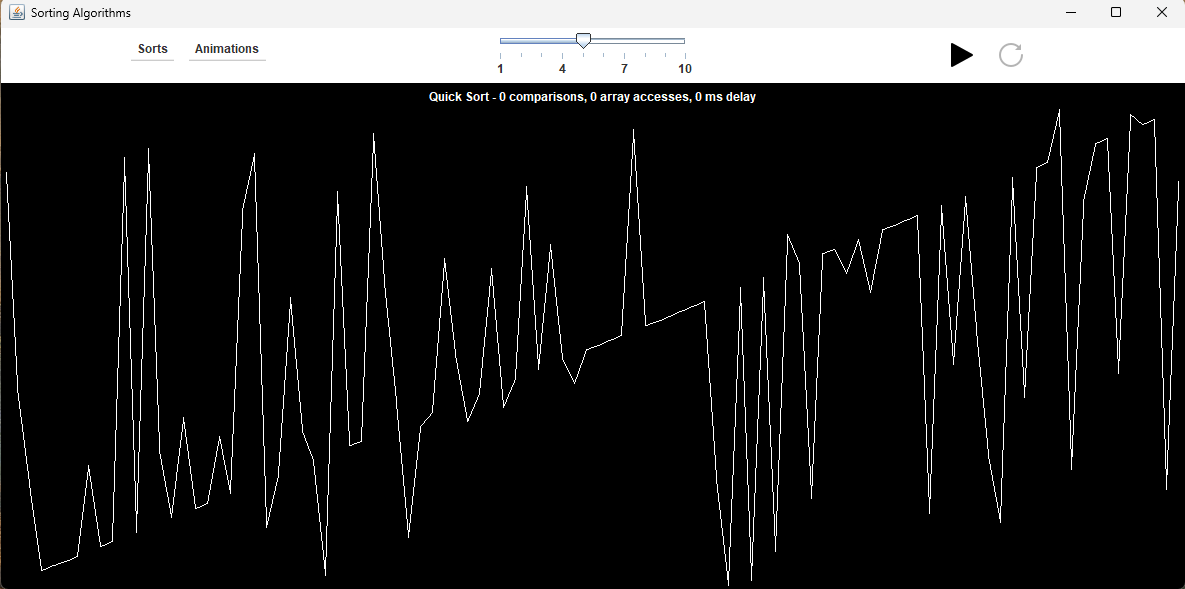
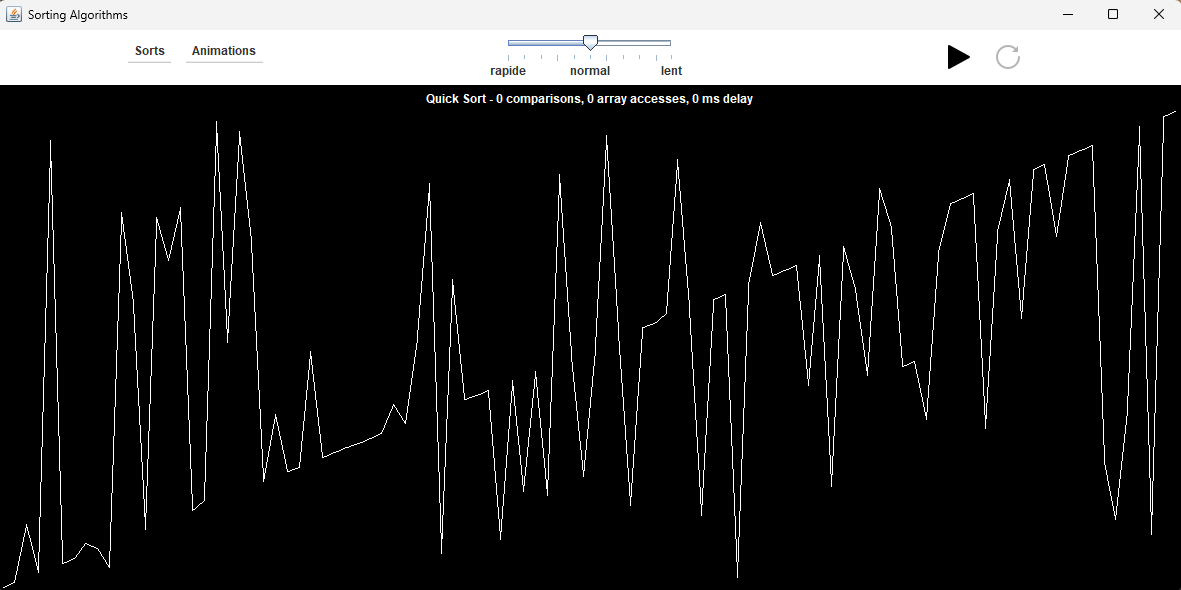
update slider tags + update screenshots

diff --git a/src/main/controller/ControllerSlider.java b/src/main/controller/ControllerSlider.java
@@ -5,6 +5,7 @@ import main.view.*;
 import java.awt.*;
 import javax.swing.*;
 import javax.swing.event.*;
+import java.util.*;
 
 /**
  * Représente le slider de contrôle de la vitesse de l'animation.
@@ -21,7 +22,12 @@ public class ControllerSlider extends JPanel implements ChangeListener {
     public ControllerSlider(AnimationStrategy as) {
         super();
         this.as = as;
-        this.speedSlider = new JSlider(1, 10);
+        this.speedSlider = new JSlider(1, 11);
+        Hashtable<Integer, JLabel> labelTable = new Hashtable<>();
+        labelTable.put(1, new JLabel("rapide"));
+        labelTable.put(6, new JLabel("normal"));
+        labelTable.put(11, new JLabel("lent"));
+        this.speedSlider.setLabelTable(labelTable);
         this.speedSlider.setPaintTrack(true); 
         this.speedSlider.setPaintTicks(true); 
         this.speedSlider.setPaintLabels(true); 

diff --git a/src/main/view/AnimationStrategy.java b/src/main/view/AnimationStrategy.java
@@ -15,7 +15,7 @@ import javax.swing.*;
 @SuppressWarnings("serial")
 public abstract class AnimationStrategy extends JPanel implements ModelListener {
 
-    protected static int SLEEP = 5;
+    protected static int SLEEP = 6;
     protected SortingList sl;
     protected String eventType;
     protected int count;
